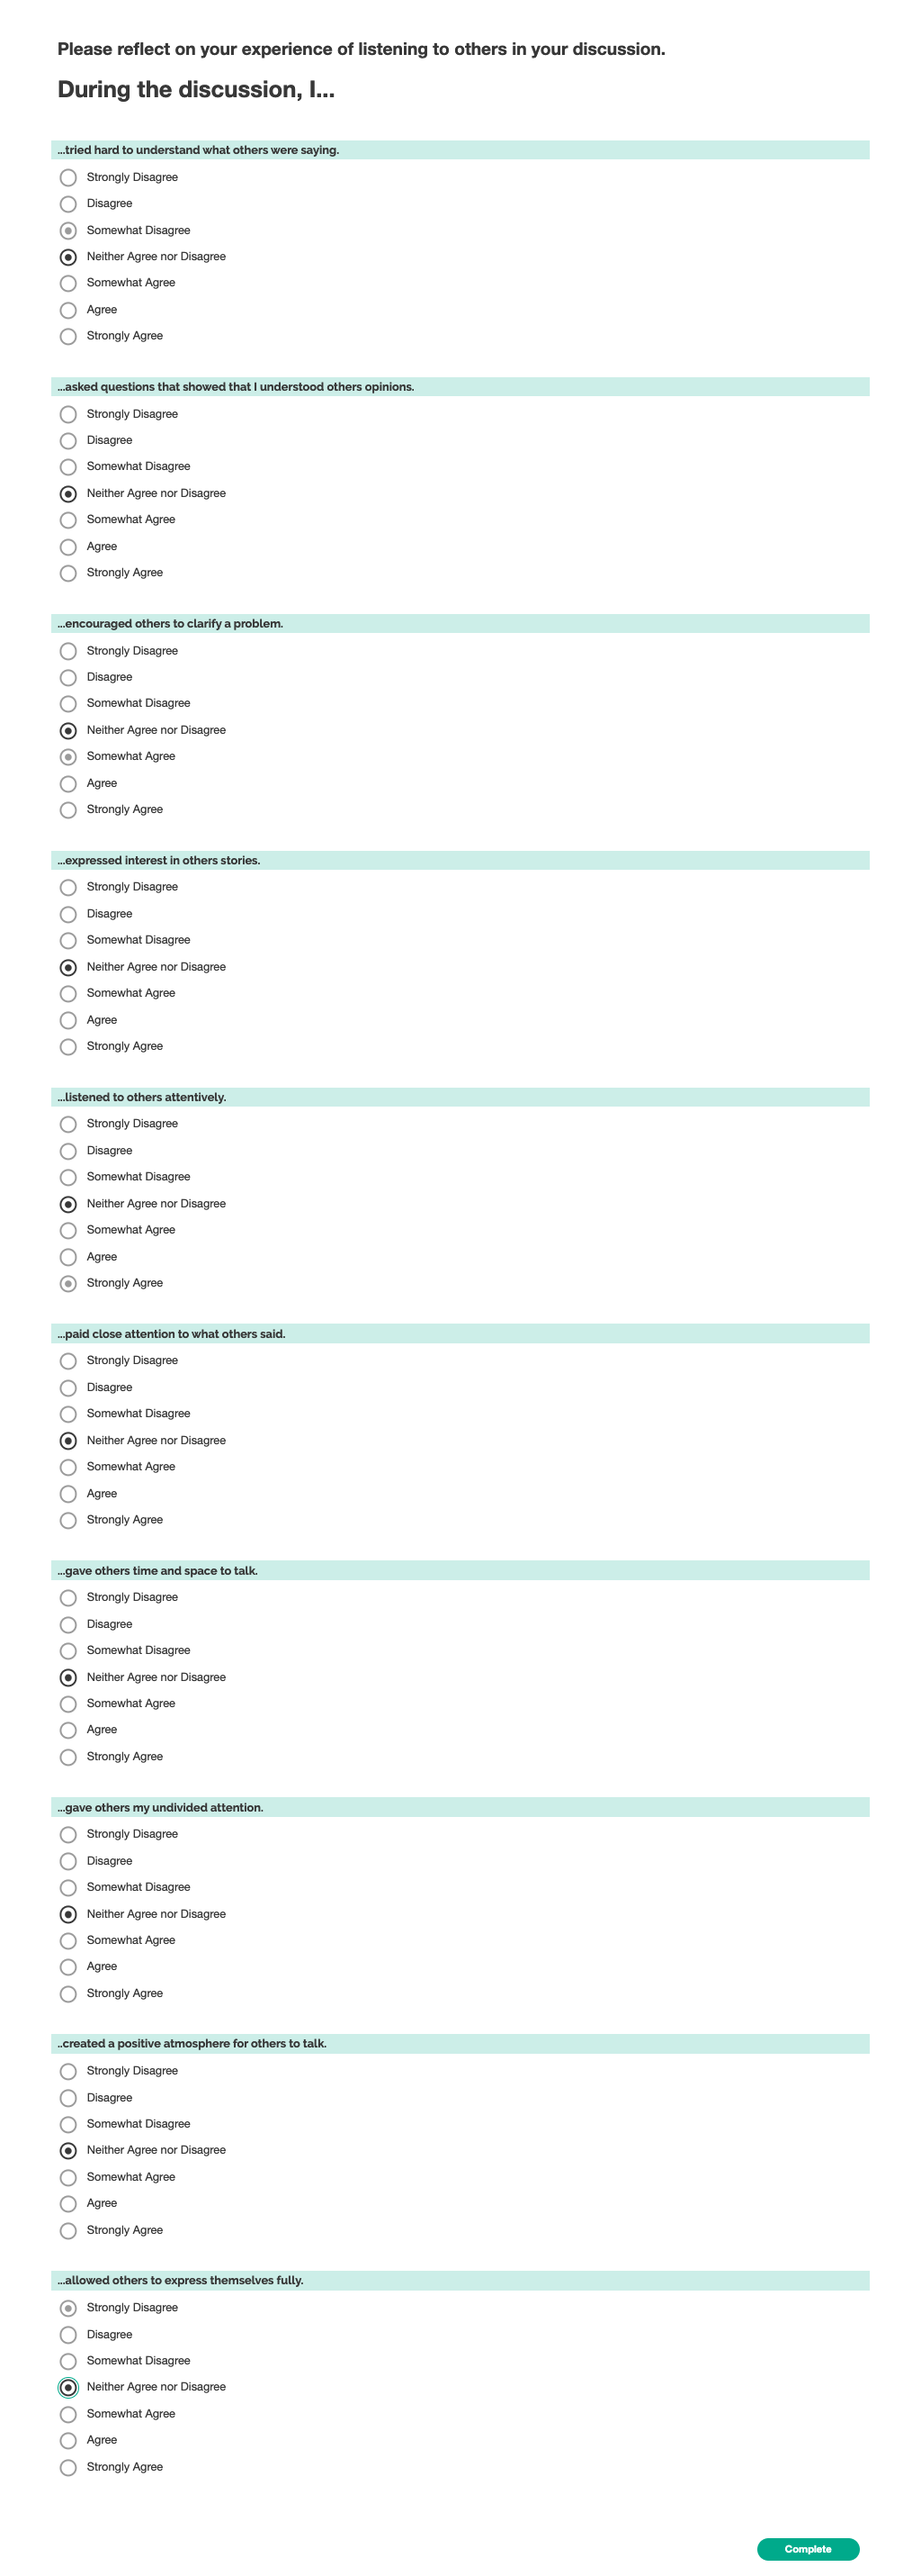
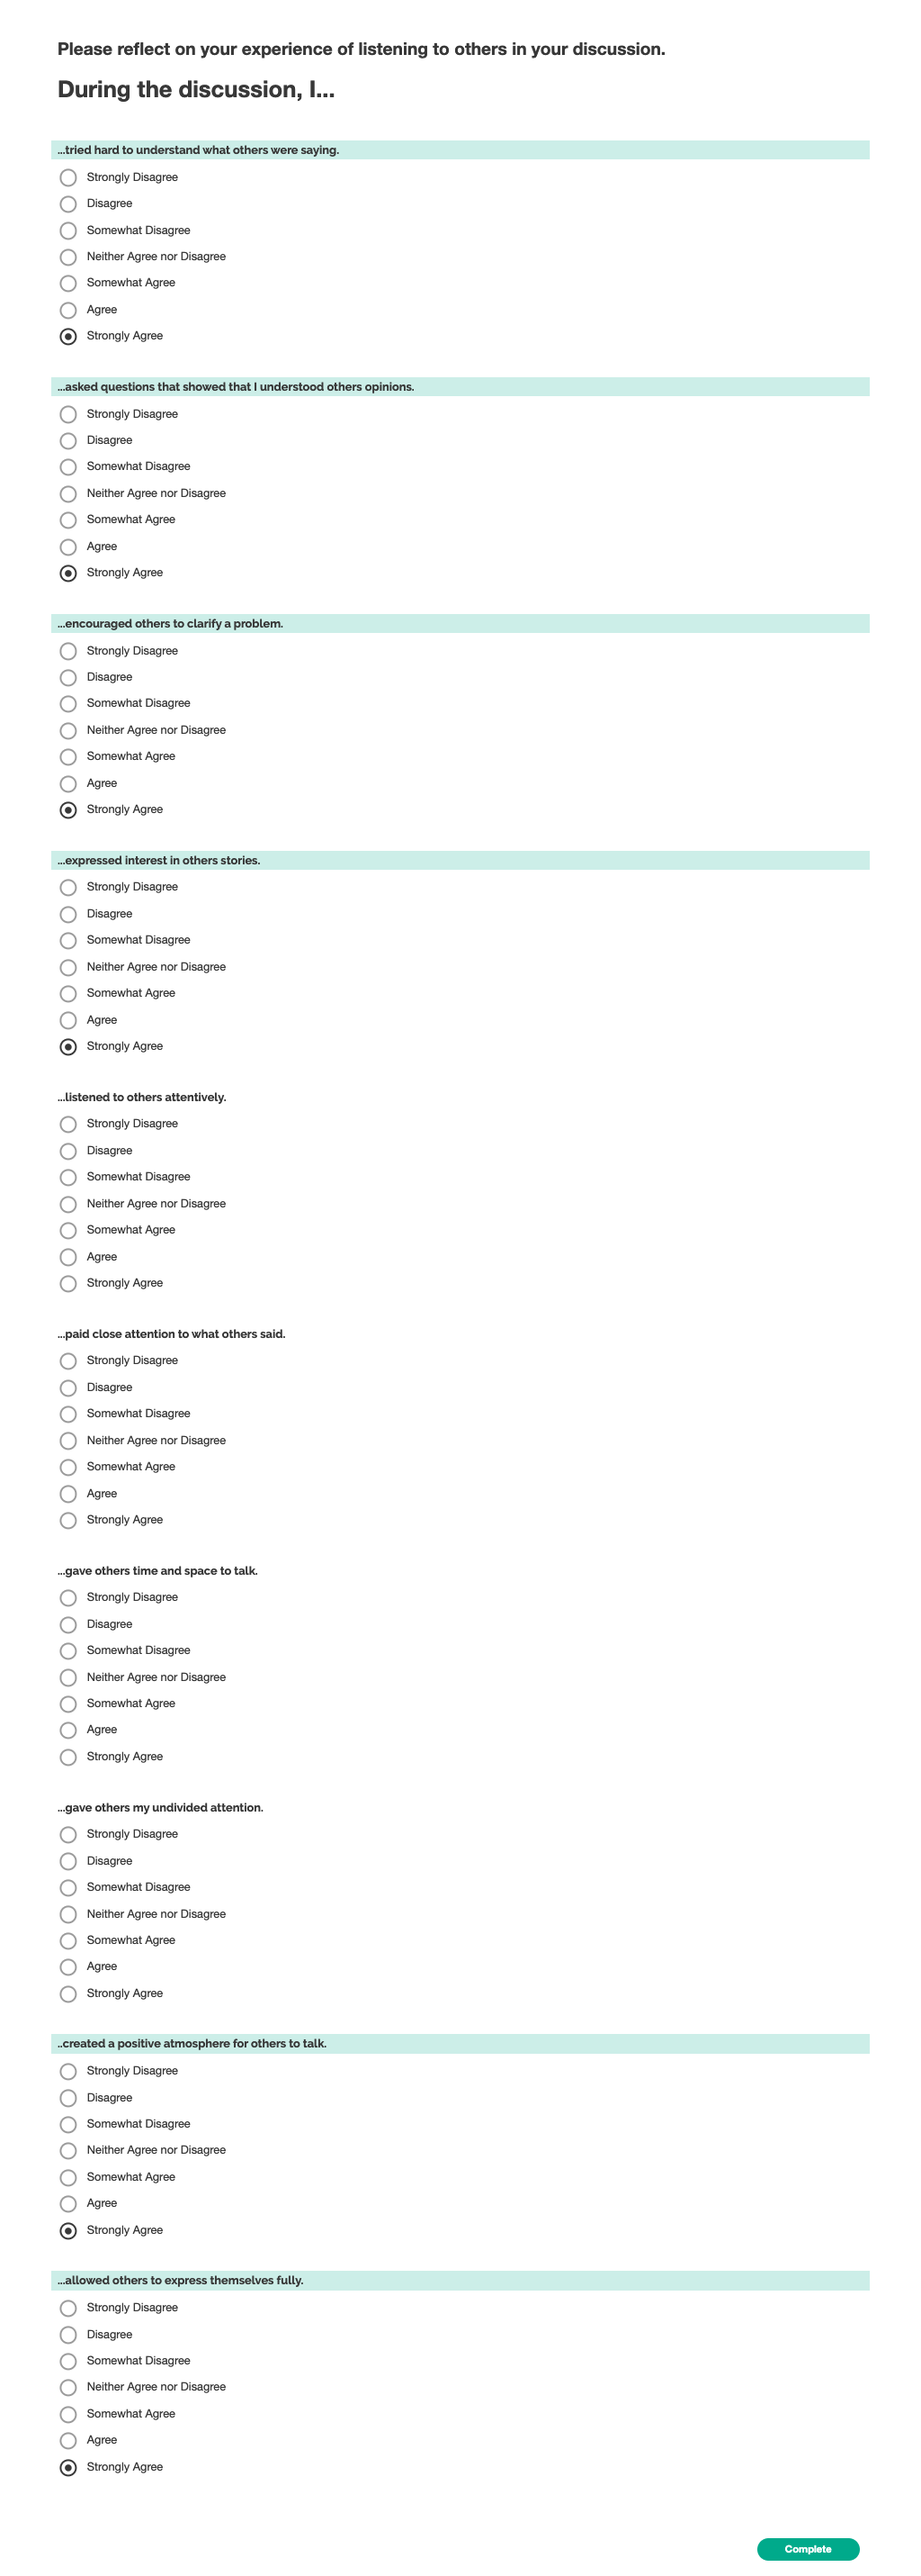
fix scoring function on constructiveListeningBehavior
Don't include skipped values in averages, avoid NaNs when surveys are incomplete.

diff --git a/surveys/constructiveListeningBehaviorsSelf/constructiveListeningBehaviorsSelf.cy.jsx b/surveys/constructiveListeningBehaviorsSelf/constructiveListeningBehaviorsSelf.cy.jsx
@@ -10,41 +10,42 @@ describe("ConstructiveListeningBehaviors", () => {
     cy.spy(dummy, "set").as("callback");
     cy.mount(<ConstructiveListeningBehaviorsSelf onComplete={dummy.set} />);
 
-    cy.get('[data-name="tryToUnderstand"] input[value="0"]').click({
+    cy.get('[data-name="tryToUnderstand"] input[value="3"]').click({
       force: true,
     });
 
-    cy.get('[data-name="askedQuestions"] input[value="0"]').click({
+    cy.get('[data-name="askedQuestions"] input[value="3"]').click({
       force: true,
     });
 
-    cy.get('[data-name="encouragedClarification"] input[value="0"]').click({
+    cy.get('[data-name="encouragedClarification"] input[value="3"]').click({
       force: true,
     });
 
-    cy.get('[data-name="expressedInterest"] input[value="0"]').click({
+    cy.get('[data-name="expressedInterest"] input[value="3"]').click({
       force: true,
     });
 
-    cy.get('[data-name="listenedAttentively"] input[value="0"]').click({
+    // Leave blank on purpose to check scoring algorithm
+    // cy.get('[data-name="listenedAttentively"] input[value="0"]').click({
+    //   force: true,
+    // });
+
+    // cy.get('[data-name="paidAttention"] input[value="0"]').click({
+    //   force: true,
+    // });
+
+    // cy.get('[data-name="gaveSpace"] input[value="0"]').click({ force: true });
+
+    // cy.get('[data-name="undividedAttention"] input[value="0"]').click({
+    //   force: true,
+    // });
+
+    cy.get('[data-name="positiveAtmosphere"] input[value="3"]').click({
       force: true,
     });
 
-    cy.get('[data-name="paidAttention"] input[value="0"]').click({
-      force: true,
-    });
-
-    cy.get('[data-name="gaveSpace"] input[value="0"]').click({ force: true });
-
-    cy.get('[data-name="undividedAttention"] input[value="0"]').click({
-      force: true,
-    });
-
-    cy.get('[data-name="positiveAtmosphere"] input[value="0"]').click({
-      force: true,
-    });
-
-    cy.get('[data-name="allowedExpression"] input[value="0"]').click({
+    cy.get('[data-name="allowedExpression"] input[value="3"]').click({
       force: true,
     });
 
@@ -61,9 +62,10 @@ describe("ConstructiveListeningBehaviors", () => {
     cy.get("@callback").then((spy) => {
       const spyCall = spy.getCall(-1).args[0];
       console.log(spyCall);
-      expect(spyCall["result"]["rawScore"]).to.eq(0);
-      expect(spyCall["result"]["normScore"]).to.eq(0.5);
-      expect(spyCall["responses"]["allowedExpression"]).to.eq(0);
+      expect(spyCall["result"]["rawScore"]).to.eq(3);
+      expect(spyCall["result"]["normScore"]).to.eq(1);
+      expect(spyCall["responses"]["allowedExpression"]).to.eq(3);
+      expect(spyCall["responses"]["undividedAttention"]).to.be.undefined;
     });
   });
 });

diff --git a/surveys/constructiveListeningBehaviors/constructiveListeningBehaviors.cy.jsx b/surveys/constructiveListeningBehaviors/constructiveListeningBehaviors.cy.jsx
@@ -10,41 +10,42 @@ describe("ConstructiveListeningBehaviors", () => {
     cy.spy(dummy, "set").as("callback");
     cy.mount(<ConstructiveListeningBehaviors onComplete={dummy.set} />);
 
-    cy.get('[data-name="tryToUnderstand"] input[value="0"]').click({
+    cy.get('[data-name="tryToUnderstand"] input[value="3"]').click({
       force: true,
     });
 
-    cy.get('[data-name="askedQuestions"] input[value="0"]').click({
+    cy.get('[data-name="askedQuestions"] input[value="3"]').click({
       force: true,
     });
 
-    cy.get('[data-name="encouragedClarification"] input[value="0"]').click({
+    cy.get('[data-name="encouragedClarification"] input[value="3"]').click({
       force: true,
     });
 
-    cy.get('[data-name="expressedInterest"] input[value="0"]').click({
+    cy.get('[data-name="expressedInterest"] input[value="3"]').click({
       force: true,
     });
 
-    cy.get('[data-name="listenedAttentively"] input[value="0"]').click({
+    // Leave blank on purpose to check scoring algorithm
+    // cy.get('[data-name="listenedAttentively"] input[value="0"]').click({
+    //   force: true,
+    // });
+
+    // cy.get('[data-name="paidAttention"] input[value="0"]').click({
+    //   force: true,
+    // });
+
+    // cy.get('[data-name="gaveSpace"] input[value="0"]').click({ force: true });
+
+    // cy.get('[data-name="undividedAttention"] input[value="0"]').click({
+    //   force: true,
+    // });
+
+    cy.get('[data-name="positiveAtmosphere"] input[value="3"]').click({
       force: true,
     });
 
-    cy.get('[data-name="paidAttention"] input[value="0"]').click({
-      force: true,
-    });
-
-    cy.get('[data-name="gaveSpace"] input[value="0"]').click({ force: true });
-
-    cy.get('[data-name="undividedAttention"] input[value="0"]').click({
-      force: true,
-    });
-
-    cy.get('[data-name="positiveAtmosphere"] input[value="0"]').click({
-      force: true,
-    });
-
-    cy.get('[data-name="allowedExpression"] input[value="0"]').click({
+    cy.get('[data-name="allowedExpression"] input[value="3"]').click({
       force: true,
     });
 
@@ -61,9 +62,10 @@ describe("ConstructiveListeningBehaviors", () => {
     cy.get("@callback").then((spy) => {
       const spyCall = spy.getCall(-1).args[0];
       console.log(spyCall);
-      expect(spyCall["result"]["rawScore"]).to.eq(0);
-      expect(spyCall["result"]["normScore"]).to.eq(0.5);
-      expect(spyCall["responses"]["allowedExpression"]).to.eq(0);
+      expect(spyCall["result"]["rawScore"]).to.eq(3);
+      expect(spyCall["result"]["normScore"]).to.eq(1);
+      expect(spyCall["responses"]["allowedExpression"]).to.eq(3);
+      expect(spyCall["responses"]["undividedAttention"]).to.be.undefined;
     });
   });
 });

diff --git a/surveys/constructiveListeningBehaviorsSelf/constructiveListeningBehaviorsSelf.score.js b/surveys/constructiveListeningBehaviorsSelf/constructiveListeningBehaviorsSelf.score.js
@@ -1,24 +1,39 @@
-// No postprocessing needed for this survey
+function normalize(array, minVal, maxVal) {
+  return array.map((val) => (val - minVal) / (maxVal - minVal));
+}
+
+function sum(array) {
+  return array.reduce((acc, val) => acc + val, 0);
+}
+
+function mean(array) {
+  return sum(array) / array.length;
+}
 
 export default function scoreFunc(responses) {
-  const minScore = -3;
-  const maxScore = 3;
+  const minVal = -3;
+  const maxVal = 3;
 
-  const rawScore =
-    parseInt(responses["tryToUnderstand"]) +
-    parseInt(responses["askedQuestions"]) +
-    parseInt(responses["encouragedClarification"]) +
-    parseInt(responses["expressedInterest"]) +
-    parseInt(responses["listenedAttentively"]) +
-    parseInt(responses["paidAttention"]) +
-    parseInt(responses["gaveSpace"]) +
-    parseInt(responses["undividedAttention"]) +
-    parseInt(responses["positiveAtmosphere"]) +
-    parseInt(responses["allowedExpression"]);
+  const rawValues = [
+    responses["tryToUnderstand"],
+    responses["askedQuestions"],
+    responses["encouragedClarification"],
+    responses["expressedInterest"],
+    responses["listenedAttentively"],
+    responses["paidAttention"],
+    responses["gaveSpace"],
+    responses["undividedAttention"],
+    responses["positiveAtmosphere"],
+    responses["allowedExpression"],
+  ]
+    .map(parseFloat)
+    .filter((v) => !Number.isNaN(v)); // don't include empty values in response
+
+  const normedValues = normalize(rawValues, minVal, maxVal);
 
   const result = {
-    rawScore: rawScore,
-    normScore: (rawScore - minScore) / (maxScore - minScore),
+    rawScore: mean(rawValues),
+    normScore: mean(normedValues),
   };
   return result;
 }

diff --git a/surveys/constructiveListeningBehaviors/constructiveListeningBehaviors.score.js b/surveys/constructiveListeningBehaviors/constructiveListeningBehaviors.score.js
@@ -1,5 +1,3 @@
-// No postprocessing needed for this survey
-
 function normalize(array, minVal, maxVal) {
   return array.map((val) => (val - minVal) / (maxVal - minVal));
 }
@@ -17,17 +15,19 @@ export default function scoreFunc(responses) {
   const maxVal = 3;
 
   const rawValues = [
-    parseInt(responses["tryToUnderstand"]) +
-      parseInt(responses["askedQuestions"]) +
-      parseInt(responses["encouragedClarification"]) +
-      parseInt(responses["expressedInterest"]) +
-      parseInt(responses["listenedAttentively"]) +
-      parseInt(responses["paidAttention"]) +
-      parseInt(responses["gaveSpace"]) +
-      parseInt(responses["undividedAttention"]) +
-      parseInt(responses["positiveAtmosphere"]) +
-      parseInt(responses["allowedExpression"]),
-  ];
+    responses["tryToUnderstand"],
+    responses["askedQuestions"],
+    responses["encouragedClarification"],
+    responses["expressedInterest"],
+    responses["listenedAttentively"],
+    responses["paidAttention"],
+    responses["gaveSpace"],
+    responses["undividedAttention"],
+    responses["positiveAtmosphere"],
+    responses["allowedExpression"],
+  ]
+    .map(parseFloat)
+    .filter((v) => !Number.isNaN(v)); // don't include empty values in response
 
   const normedValues = normalize(rawValues, minVal, maxVal);
 
